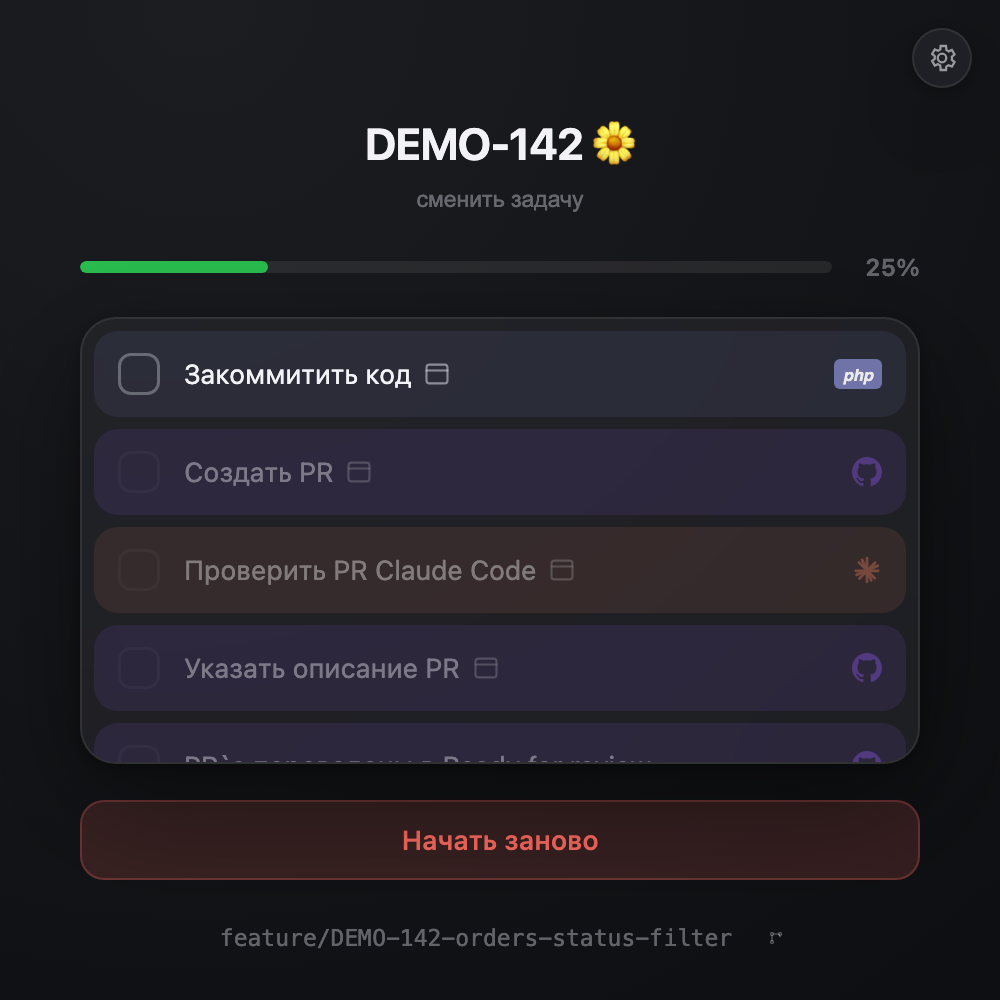
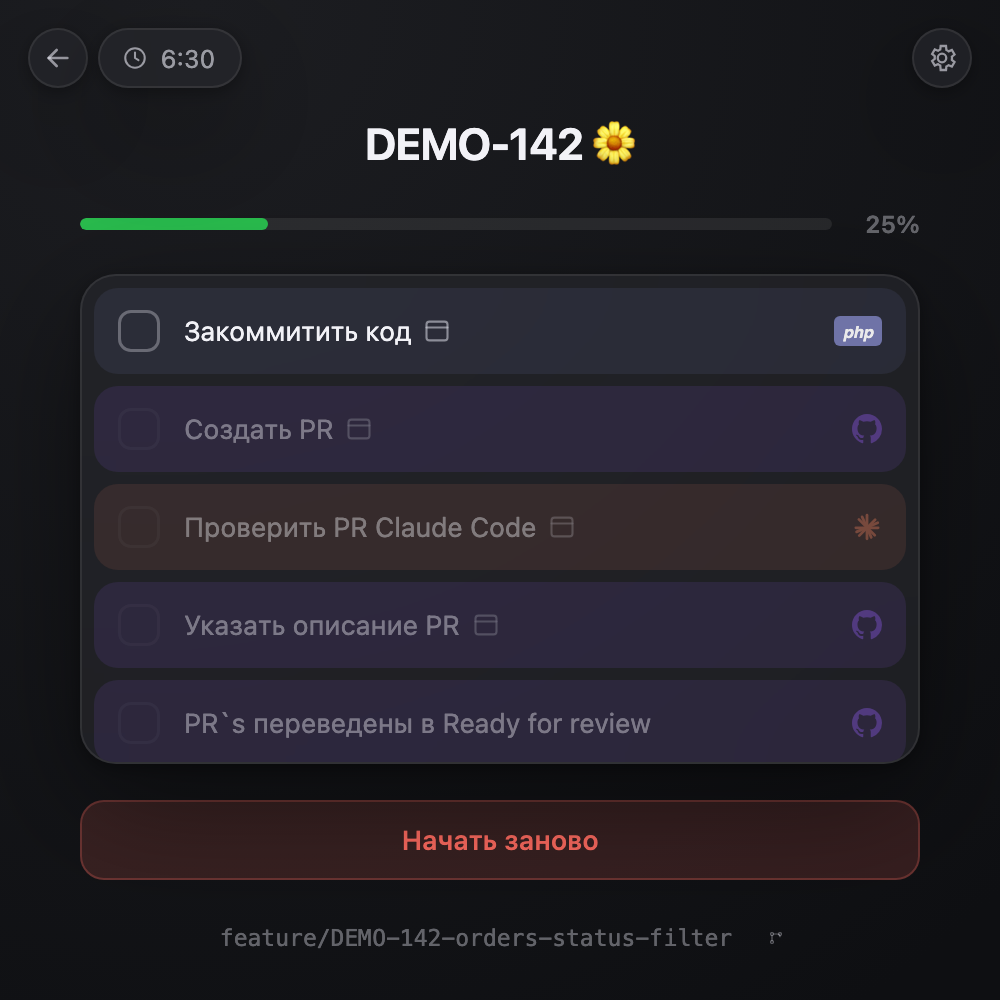
redesign back btn

diff --git a/public/assets/css/style.css b/public/assets/css/style.css
@@ -134,6 +134,33 @@ body {
     gap: 5px;
 }
 
+/* Возврат к экрану ввода ссылки — стеклянный кружок в той же группе, что индикатор
+   времени (симметрично шестерёнке справа). Раньше это была текстовая ссылка «сменить задачу»
+   под заголовком: серый текст без границ не читался как кликабельный и занимал отдельную
+   строку в окне 500×500. Виден только внутри задачи (класс hidden снимает showTaskScreen) */
+.back-btn {
+    flex: none;
+    width: 30px;
+    height: 30px;
+    border-radius: 50%;
+    border: 1px solid var(--surface-border);
+    background: var(--surface);
+    backdrop-filter: blur(20px) saturate(180%);
+    -webkit-backdrop-filter: blur(20px) saturate(180%);
+    box-shadow: var(--shadow);
+    color: var(--text-secondary);
+    display: flex;
+    align-items: center;
+    justify-content: center;
+    cursor: pointer;
+    transition: color 0.15s ease, transform 0.18s ease;
+}
+
+.back-btn:hover {
+    color: var(--text-primary);
+    transform: translateX(-2px);
+}
+
 .today-time {
     height: 30px;
     padding: 0 11px;
@@ -1193,19 +1220,6 @@ html[data-theme="dark"] .modal:has(.congrats-modal) {
 
 .task-id:hover {
     text-decoration: underline;
-}
-
-.link-btn {
-    border: none;
-    background: none;
-    color: var(--text-tertiary);
-    font-size: 11.5px;
-    cursor: pointer;
-    padding: 2px 6px;
-}
-
-.link-btn:hover {
-    color: var(--accent);
 }
 
 .progress {

diff --git a/public/assets/js/app.js b/public/assets/js/app.js
@@ -950,6 +950,7 @@
         taskIdLabel.href = state.task.task_link;
         renderGitBranch();
         renderChecklist();
+        changeTaskBtn.classList.remove('hidden'); // возврат к вводу ссылки есть только внутри задачи
         updateTrackTimeAvailability(); // быстрый трек времени доступен только внутри задачи
     }
 
@@ -962,6 +963,7 @@
         taskLinkInput.value = '';
         taskLinkInput.focus();
         renderRecentTasks();
+        changeTaskBtn.classList.add('hidden');
         updateTrackTimeAvailability();
     }
 

diff --git a/public/index.php b/public/index.php
@@ -50,9 +50,16 @@ $assetVersion = static function (string $relativePath): string {
 </head>
 <body>
 
-<!-- Затреканное сегодня время во всех задачах Jira (подгружается отдельно от страницы) и
-     кружок быстрого трека времени, всплывающий правее по наведению (только когда открыта задача) -->
+<!-- Кнопка возврата к экрану ввода ссылки (видна только внутри задачи), затреканное сегодня
+     время во всех задачах Jira (подгружается отдельно от страницы) и кружок быстрого трека
+     времени, всплывающий правее по наведению (только когда открыта задача) -->
 <div class="today-time-group">
+    <button type="button" id="change-task-btn" class="back-btn hidden" data-tooltip="Другая задача" aria-label="Другая задача">
+        <svg viewBox="0 0 24 24" width="16" height="16" fill="none" stroke="currentColor" stroke-width="2" stroke-linecap="round" stroke-linejoin="round">
+            <path d="M19 12H5"/>
+            <path d="M11 6l-6 6 6 6"/>
+        </svg>
+    </button>
     <button type="button" id="today-time" class="today-time hidden" data-tooltip="Затрекано времени" aria-label="Затреканное сегодня время">
         <svg viewBox="0 0 24 24" width="13" height="13" fill="none" stroke="currentColor" stroke-width="1.9" stroke-linecap="round" stroke-linejoin="round">
             <circle cx="12" cy="12" r="9"/>
@@ -141,7 +148,6 @@ $assetVersion = static function (string $relativePath): string {
     <section id="task-screen" class="screen task-screen hidden">
         <div class="task-header">
             <a class="task-id" id="task-id-label" target="_blank" rel="noopener"></a>
-            <button id="change-task-btn" class="link-btn" data-tooltip="Ввести другую задачу">сменить задачу</button>
         </div>
 
         <!-- Прогресс выполнения чек-листа -->

diff --git a/CLAUDE.md b/CLAUDE.md
@@ -989,6 +989,12 @@ API (`[services].exchange_rate_url`) через `ExchangeRateClient` (файло
   **Цвет плитки задаётся одной переменной `--metric-color`** (класс `.metric--blue` в
   `style.css`): новый показатель = новый класс-цвет плюс метод в `DashboardService`, остальные
   CSS-правила общие — не копируй блок стилей под каждый показатель.
+- Возврат к экрану ввода ссылки — стеклянный кружок со стрелкой (`.back-btn`,
+  `#change-task-btn`) первым элементом в группе `.today-time-group` слева сверху, симметрично
+  шестерёнке справа. Раньше это была текстовая ссылка «сменить задачу» под заголовком задачи
+  (`.link-btn`): серый текст без границ не читался как кликабельный и занимал в окне 500×500
+  отдельную строку. Показ — снятие класса `hidden` в `showTaskScreen()`/возврат его в
+  `showLinkScreen()`, т.е. кнопка существует только внутри задачи.
 - Индикатор затреканного сегодня времени (`.today-time`, левый верхний угол, симметрично
   иконке настроек) — формат «часы:минуты» (`formatClock()`), показывается на обоих экранах.
   Грузится независимо от страницы и задачи (`loadTodayTimeSpent()`, см. `api/today_time_spent.php`):

diff --git a/README.md b/README.md
@@ -86,7 +86,8 @@ database is just a file next to the code.
 | Затрекать время *(log time)* | A slider spanning your whole work day (lunch excluded) → adds a worklog to Jira. When you hit your daily norm, a congrats modal shows today's earnings and a motivational quote | Jira |
 | Отправить PR ревьюверу *(send the PR to a reviewer)* | Copies the PR link and a message template with the deploy instruction | — |
 
-Independently of the checklist you also get: a "time logged today" indicator, quick time logging
+Independently of the checklist you also get: a back arrow in the top left corner (returns to the
+link screen so you can open another task), a "time logged today" indicator, quick time logging
 with a single slider, a list of today's tasks, and a git commands dropdown next to the branch
 name (`checkout -b`, `push`, `rebase` onto your base branches).
 
